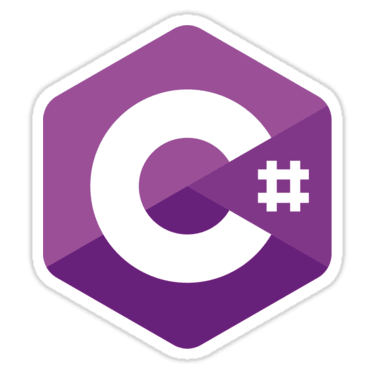
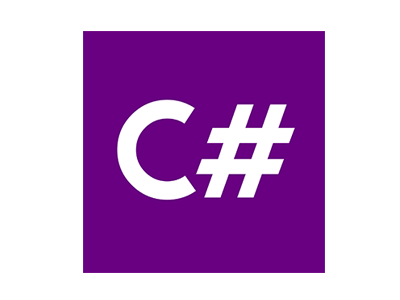
better site, with Languages put into pictures

diff --git a/index.html b/index.html
@@ -1,110 +1,98 @@
 <!DOCTYPE html>
 <html lang="en">
-<head>
-  <title>Oscar Macdonald Portfolio</title>
-	<meta name="viewport" content="width=device-width, initial-scale=1">
-  <link rel="stylesheet" href="https://maxcdn.bootstrapcdn.com/bootstrap/3.3.7/css/bootstrap.min.css">
-  <script src="https://ajax.googleapis.com/ajax/libs/jquery/3.2.0/jquery.min.js"></script>
-  <script src="https://maxcdn.bootstrapcdn.com/bootstrap/3.3.7/js/bootstrap.min.js"></script>
-  <script src="main.js"></script>
-  <link rel="stylesheet" href="main.css">
-</head>
-<body data-spy="scroll" data-target=".navbar" data-offset="50">
-<div class="jumbotron">
-  <div class="container text-center">
-    <h1>Oscar Macdonald</h1>      
-    <p>Bachelor Degree of Information Technology; Otago Polytechnic, 2017</p>
-  </div>
-</div>
-
-<nav class="navbar navbar-inverse" data-spy="affix" data-offset-top="197">
-  <div class="container-fluid">
-    <div class="navbar-header">
-        <button type="button" class="navbar-toggle" data-toggle="collapse" data-target="#myNavbar">
+  <head>
+    <title>Oscar Macdonald Portfolio</title>
+    <meta name="viewport" content="width=device-width, initial-scale=1">
+    <link rel="stylesheet" href="https://maxcdn.bootstrapcdn.com/bootstrap/3.3.7/css/bootstrap.min.css">
+    <script src="https://ajax.googleapis.com/ajax/libs/jquery/3.2.0/jquery.min.js"></script>
+    <script src="https://maxcdn.bootstrapcdn.com/bootstrap/3.3.7/js/bootstrap.min.js"></script>
+    <script src="main.js"></script>
+    <link rel="stylesheet" href="main.css">
+  </head>
+  <body data-spy="scroll" data-target=".navbar" data-offset="50">
+    <div class="jumbotron">
+      <div class="container text-center">
+        <h1>Oscar Macdonald</h1>
+        <p>Bachelor Degree of Information Technology; Otago Polytechnic, 2017</p>
+      </div>
+    </div>
+    <nav class="navbar navbar-inverse" data-spy="affix" data-offset-top="197">
+      <div class="container-fluid">
+        <div class="navbar-header">
+          <button type="button" class="navbar-toggle" data-toggle="collapse" data-target="#myNavbar">
           <span class="icon-bar"></span>
           <span class="icon-bar"></span>
           <span class="icon-bar"></span>                        
-      </button>
-      <a class="navbar-brand" href="#">macdo5.github.io</a>
-    </div>
-    <div>
-      <div class="collapse navbar-collapse" id="myNavbar">
-        <ul class="nav navbar-nav">
-          <li><a href="#LoRaWAN">LoRaWAN</a></li>
-          <li><a href="#Android">Android</a></li>
-          <li><a href="#Linux">Linux</a></li>
-          <li class="dropdown"><a class="dropdown-toggle" data-toggle="dropdown" href="#">Languages<span class="caret"></span></a>
-            <ul class="dropdown-menu">
-              <li><a href="#Java">Java</a></li>
-              <li><a href="#JavaScript">JavaScript</a></li>
-			  <li><a href="#CPP">C++</a></li>
-			  <li><a href="#CS">C#</a></li>
-			  <li><a href="#Ruby">Ruby</a></li>
-			  <li><a href="#Python">Python</a></li>
-			  <li><a href="#SQL">SQL</a></li>
+          </button>
+          <a class="navbar-brand" href="#">macdo5.github.io</a>
+        </div>
+        <div>
+          <div class="collapse navbar-collapse" id="myNavbar">
+            <ul class="nav navbar-nav">
+              <li><a href="#LoRaWAN">LoRaWAN</a></li>
+              <li><a href="#Android">Android</a></li>
+              <li><a href="#Linux">Linux</a></li>
+              <li class="dropdown">
+                <a class="dropdown-toggle" data-toggle="dropdown" href="#">Languages<span class="caret"></span></a>
+                <ul class="dropdown-menu">
+                  <li><a href="#Languages">Java</a></li>
+                  <li><a href="#Languages">JavaScript</a></li>
+                  <li><a href="#Languages">C++</a></li>
+                  <li><a href="#Languages">C#</a></li>
+                  <li><a href="#Languages">Ruby</a></li>
+                  <li><a href="#Languages">Python</a></li>
+                  <li><a href="#Languages">SQL</a></li>
+                </ul>
+              </li>
+              <li><a href="#OtagoPolytechnic">Education</a></li>
+              <li><a href="#AboutOscar">Who is Oscar?</a></li>
             </ul>
-          </li>
-		  <li><a href="#AboutOscar">Who is Oscar?</a></li>
-        </ul>
+          </div>
+        </div>
       </div>
-    </div>
-  </div>
-</nav>    
-
-<div id="LoRaWAN" class="container-fluid section">
-  <h1>LoRaWAN Project</h1>
-  <p>The LoRaWAN Project (previously known as The Things Network Project) is the introduction of an open-source internet of things. 
-</div>
-<div id="Android" class="container-fluid section">
-  <h1>Android Mobile App Development</h1>
-  <p>Try to scroll this section and look at the navigation bar while scrolling! Try to scroll this section and look at the navigation bar while scrolling!</p>
-  <p>Try to scroll this section and look at the navigation bar while scrolling! Try to scroll this section and look at the navigation bar while scrolling!</p>
-</div>
-<div id="Linux" class="container-fluid section">
-  <h1>Linux</h1>
-  <p>Try to scroll this section and look at the navigation bar while scrolling! Try to scroll this section and look at the navigation bar while scrolling!</p>
-  <p>Try to scroll this section and look at the navigation bar while scrolling! Try to scroll this section and look at the navigation bar while scrolling!</p>
-</div>
-<div id="Java" class="container-fluid section">
-  <h1>Section 4 Submenu 1</h1>
-  <p>Try to scroll this section and look at the navigation bar while scrolling! Try to scroll this section and look at the navigation bar while scrolling!</p>
-  <p>Try to scroll this section and look at the navigation bar while scrolling! Try to scroll this section and look at the navigation bar while scrolling!</p>
-</div>
-<div id="JavaScript" class="container-fluid section">
-  <h1>Section 4 Submenu 2</h1>
-  <p>Try to scroll this section and look at the navigation bar while scrolling! Try to scroll this section and look at the navigation bar while scrolling!</p>
-  <p>Try to scroll this section and look at the navigation bar while scrolling! Try to scroll this section and look at the navigation bar while scrolling!</p>
-</div>
-<div id="CPP" class="container-fluid section">
-  <h1>Section 4 Submenu 2</h1>
-  <p>Try to scroll this section and look at the navigation bar while scrolling! Try to scroll this section and look at the navigation bar while scrolling!</p>
-  <p>Try to scroll this section and look at the navigation bar while scrolling! Try to scroll this section and look at the navigation bar while scrolling!</p>
-</div>
-<div id="CS" class="container-fluid section">
-  <h1>Section 4 Submenu 2</h1>
-  <p>Try to scroll this section and look at the navigation bar while scrolling! Try to scroll this section and look at the navigation bar while scrolling!</p>
-  <p>Try to scroll this section and look at the navigation bar while scrolling! Try to scroll this section and look at the navigation bar while scrolling!</p>
-</div>
-<div id="Ruby" class="container-fluid section">
-  <h1>Section 4 Submenu 2</h1>
-  <p>Try to scroll this section and look at the navigation bar while scrolling! Try to scroll this section and look at the navigation bar while scrolling!</p>
-  <p>Try to scroll this section and look at the navigation bar while scrolling! Try to scroll this section and look at the navigation bar while scrolling!</p>
-</div>
-<div id="Python" class="container-fluid section">
-  <h1>Section 4 Submenu 2</h1>
-  <p>Try to scroll this section and look at the navigation bar while scrolling! Try to scroll this section and look at the navigation bar while scrolling!</p>
-  <p>Try to scroll this section and look at the navigation bar while scrolling! Try to scroll this section and look at the navigation bar while scrolling!</p>
-</div>
-<div id="SQL" class="container-fluid section">
-  <h1>Section 4 Submenu 2</h1>
-  <p>Try to scroll this section and look at the navigation bar while scrolling! Try to scroll this section and look at the navigation bar while scrolling!</p>
-  <p>Try to scroll this section and look at the navigation bar while scrolling! Try to scroll this section and look at the navigation bar while scrolling!</p>
-</div>
-<div id="AboutOscar" class="container-fluid section">
-  <h1>Who is Oscar?</h1>
-  <p>Try to scroll this section and look at the navigation bar while scrolling! Try to scroll this section and look at the navigation bar while scrolling!</p>
-  <p>Try to scroll this section and look at the navigation bar while scrolling! Try to scroll this section and look at the navigation bar while scrolling!</p>
-</div>
-
-</body>
+    </nav>
+	<div class="container">
+		<div id="LoRaWAN" class="container-fluid section">
+		  <h1>LoRaWAN Project</h1>
+		  <p>The LoRaWAN Project (previously known as The Things Network Project) is the introduction of an open, free and community-owned IoT data network for Dunedin.</p>
+		  <p>With a team of staff and students collaborating together, our goal is to deploy IoT devices linked to LoRa gateways kilometers away, managed by our own local servers</p>
+		  <p>This will provide locals with the opportunity to collect data with a small, cheap sensor usinmg our free network. At the same time, both staff and students get to learn and apply our skills, the perfect win-win!</p>
+		</div>
+		<div id="Android" class="container-fluid section">
+		  <h1>Android Mobile App Development</h1>
+		  <p>Portable, handheld devices are becoming renowned for their use in education, as well as beneficial for quick notifications and control over the IoT. Plus the games are really fun!</p> 
+		  <p>My focus is for powerful, simple and user-friendly apps with documented, Object-Oriented, SOLID design</p>
+		</div>
+		<div id="Linux" class="container-fluid section">
+		  <h1>Linux</h1>
+		  <p></p>
+		  <p></p>
+		</div>
+		<div id="Languages" class="container-fluid section">
+		  <h1>Languages</h1>
+		  <div class="row">
+			<div class="col-lg-3 col-md-4 col-xs-6"><img class="img-responsive" src="images/c-sharp-transparent.png"/></div>
+			<div class="col-lg-3 col-md-4 col-xs-6"><img class="img-responsive" src="images/cpp-transparent.png"/></div>
+			<div class="col-lg-3 col-md-4 col-xs-6"><img class="img-responsive" src="images/java-transparent.png"/></div>
+			<div class="col-lg-3 col-md-4 col-xs-6"><img class="img-responsive" src="images/js.png"/></div>
+			<div class="col-lg-3 col-md-4 col-xs-6"><img class="img-responsive" src="images/ruby-transparent.png"/></div>
+			<div class="col-lg-3 col-md-4 col-xs-6"><img class="img-responsive" src="images/python-transparent.png"/></div>
+			<div class="col-lg-3 col-md-4 col-xs-6"><img class="img-responsive" src="images/sql-transparent.png"/></div>
+		  </div>
+		</div>
+		<div id="OtagoPolytechnic" class="container-fluid section">
+		  <h1>Otago Polytechnic</h1>
+		  <p>Try to scroll this section and look at the navigation bar while scrolling! Try to scroll this section and look at the navigation bar while scrolling!</p>
+		  <p>Try to scroll this section and look at the navigation bar while scrolling! Try to scroll this section and look at the navigation bar while scrolling!</p>
+		</div>
+		<div id="AboutOscar" class="container-fluid section">
+		  <h1>Who is Oscar?</h1>
+		  <p>Try to scroll this section and look at the navigation bar while scrolling! Try to scroll this section and look at the navigation bar while scrolling!</p>
+		  <p>Try to scroll this section and look at the navigation bar while scrolling! Try to scroll this section and look at the navigation bar while scrolling!</p>
+		</div>
+	</div>
+	<footer class="container-fluid text-center">
+	  <p>Footer Text</p>
+	</footer>
+  </body>
 </html>

diff --git a/main.css b/main.css
@@ -1,6 +1,11 @@
 body {
   position: relative; 
 }
+
+.navbar-inverse .navbar-nav>.active>a, .navbar-inverse .navbar-nav>.active>a:focus, .navbar-inverse .navbar-nav>.active>a:hover{
+	background-color: #330033
+}
+
 .affix {
   top:0;
   width: 100%;
@@ -11,11 +16,13 @@ body {
 .navbar {
   margin-bottom: 0;
   border-radius: 0;
+  background-color: #1a001a;
 }
 
 .affix ~ .container-fluid {
  position: relative;
  top: 50px;
+ width: 100%;
 }
 
 .jumbotron{
@@ -24,96 +31,60 @@ body {
 }
 .container.text-center{
 	padding: 20px 0px 20px 0px;
-	
 }
 
 .container-fluid.section{
 	margin-bottom: 40px;
 	padding-top:50px;
-	height:500px;
+	padding-bottom:50px;
 	color: #fff;
 }
 
 #LoRaWAN {
-	/*http://stackoverflow.com/questions/23208200/how-to-darken-a-background-using-css*/
-    background: linear-gradient(
+	background: linear-gradient(
       rgba(0, 0, 0, 0.5), 
       rgba(0, 0, 0, 0.5)
-    ), url('images/Ravensbourne3.jpg');
+    ), url(images/Ravensbourne3.jpg);
 	background-position: center;
 }
 
 #Android {
     background: linear-gradient(
-      rgba(0, 0, 0, 0.7), 
-      rgba(0, 0, 0, 0.7)
-    ), url('images/Ravensbourne2.jpg');
+      rgba(0, 0, 0, 0.5), 
+      rgba(0, 0, 0, 0.5)
+    ), url(images/Ravensbourne2.jpg);
 	background-position: center;
 }
 
 #Linux {
 	background: linear-gradient(
-      rgba(0, 0, 0, 0.7), 
-      rgba(0, 0, 0, 0.7)
-    ), url('images/Ravensbourne1.jpg');
+      rgba(0, 0, 0, 0.5), 
+      rgba(0, 0, 0, 0.5)
+    ), url(images/Ravensbourne1.jpg);
 	background-position: center;
 }
 
-#Java {
+#Languages {
 	background: linear-gradient(
-      rgba(0, 0, 0, 0.7), 
-      rgba(0, 0, 0, 0.7)
-    ), url('images/Ravensbourne1.jpg');
+      rgba(0, 0, 0, 0.5), 
+      rgba(0, 0, 0, 0.5)
+    ), url(images/Ravensbourne3.jpg);
 	background-position: center;
 }
 
-#JavaScript {
+#OtagoPolytechnic {
 	background: linear-gradient(
-      rgba(0, 0, 0, 0.7), 
-      rgba(0, 0, 0, 0.7)
-    ), url('images/Ravensbourne1.jpg');
+      rgba(0, 0, 0, 0.5), 
+      rgba(0, 0, 0, 0.5)
+    ), url(images/Ravensbourne2.jpg);
 	background-position: center;
 }
-#CPP {
-	background: linear-gradient(
-      rgba(0, 0, 0, 0.7), 
-      rgba(0, 0, 0, 0.7)
-    ), url('images/Ravensbourne1.jpg');
-	background-position: center;
-}
-#CS {
-	background: linear-gradient(
-      rgba(0, 0, 0, 0.7), 
-      rgba(0, 0, 0, 0.7)
-    ), url('images/Ravensbourne1.jpg');
-	background-position: center;
-}
-#Ruby {
-	background: linear-gradient(
-      rgba(0, 0, 0, 0.7), 
-      rgba(0, 0, 0, 0.7)
-    ), url('images/Ravensbourne1.jpg');
-	background-position: center;
-}
-#Python {
-	background: linear-gradient(
-      rgba(0, 0, 0, 0.7), 
-      rgba(0, 0, 0, 0.7)
-    ), url('images/Ravensbourne1.jpg');
-	background-position: center;
-}
-#SQL {
-	background: linear-gradient(
-      rgba(0, 0, 0, 0.7), 
-      rgba(0, 0, 0, 0.7)
-    ), url('images/Ravensbourne1.jpg');
-	background-position: center;
-}
+
 #AboutOscar {
 	background: linear-gradient(
-      rgba(0, 0, 0, 0.7), 
-      rgba(0, 0, 0, 0.7)
-    ), url('images/Ravensbourne1.jpg');
+      rgba(0, 0, 0, 0.5), 
+      rgba(0, 0, 0, 0.5)
+    ), url(images/Ravensbourne1.jpg);
 	background-position: center;
 }
 
